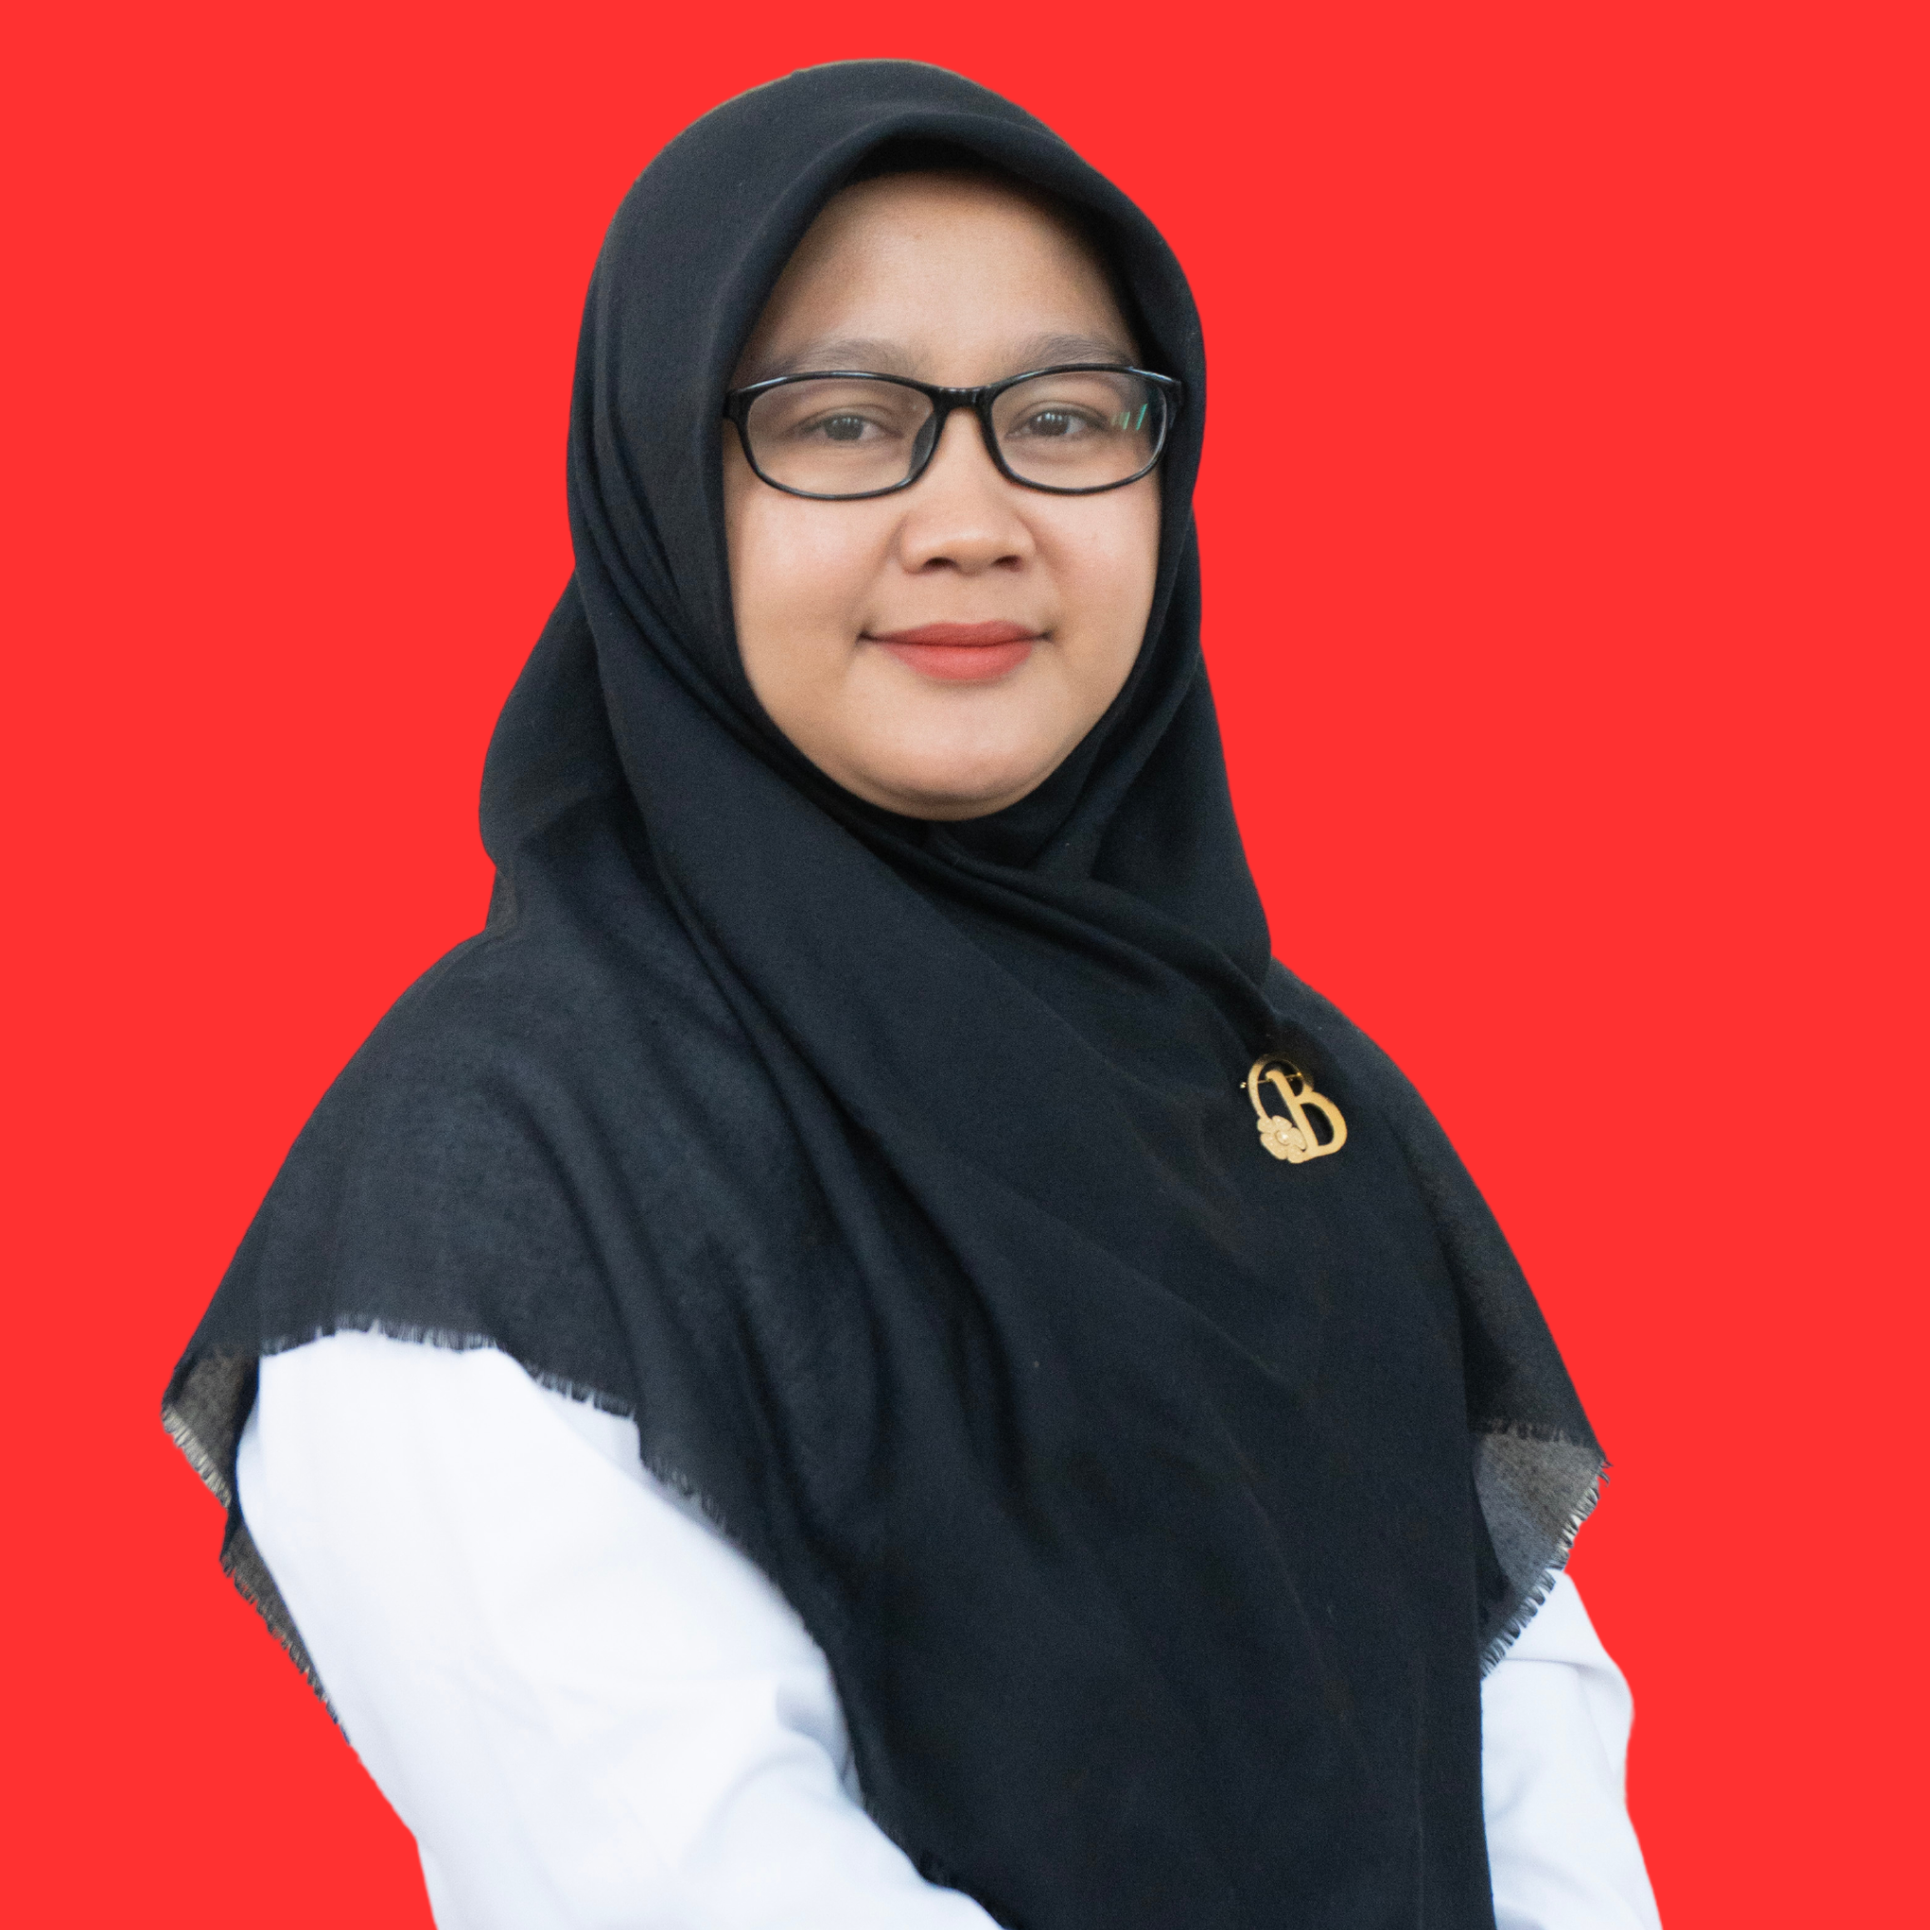
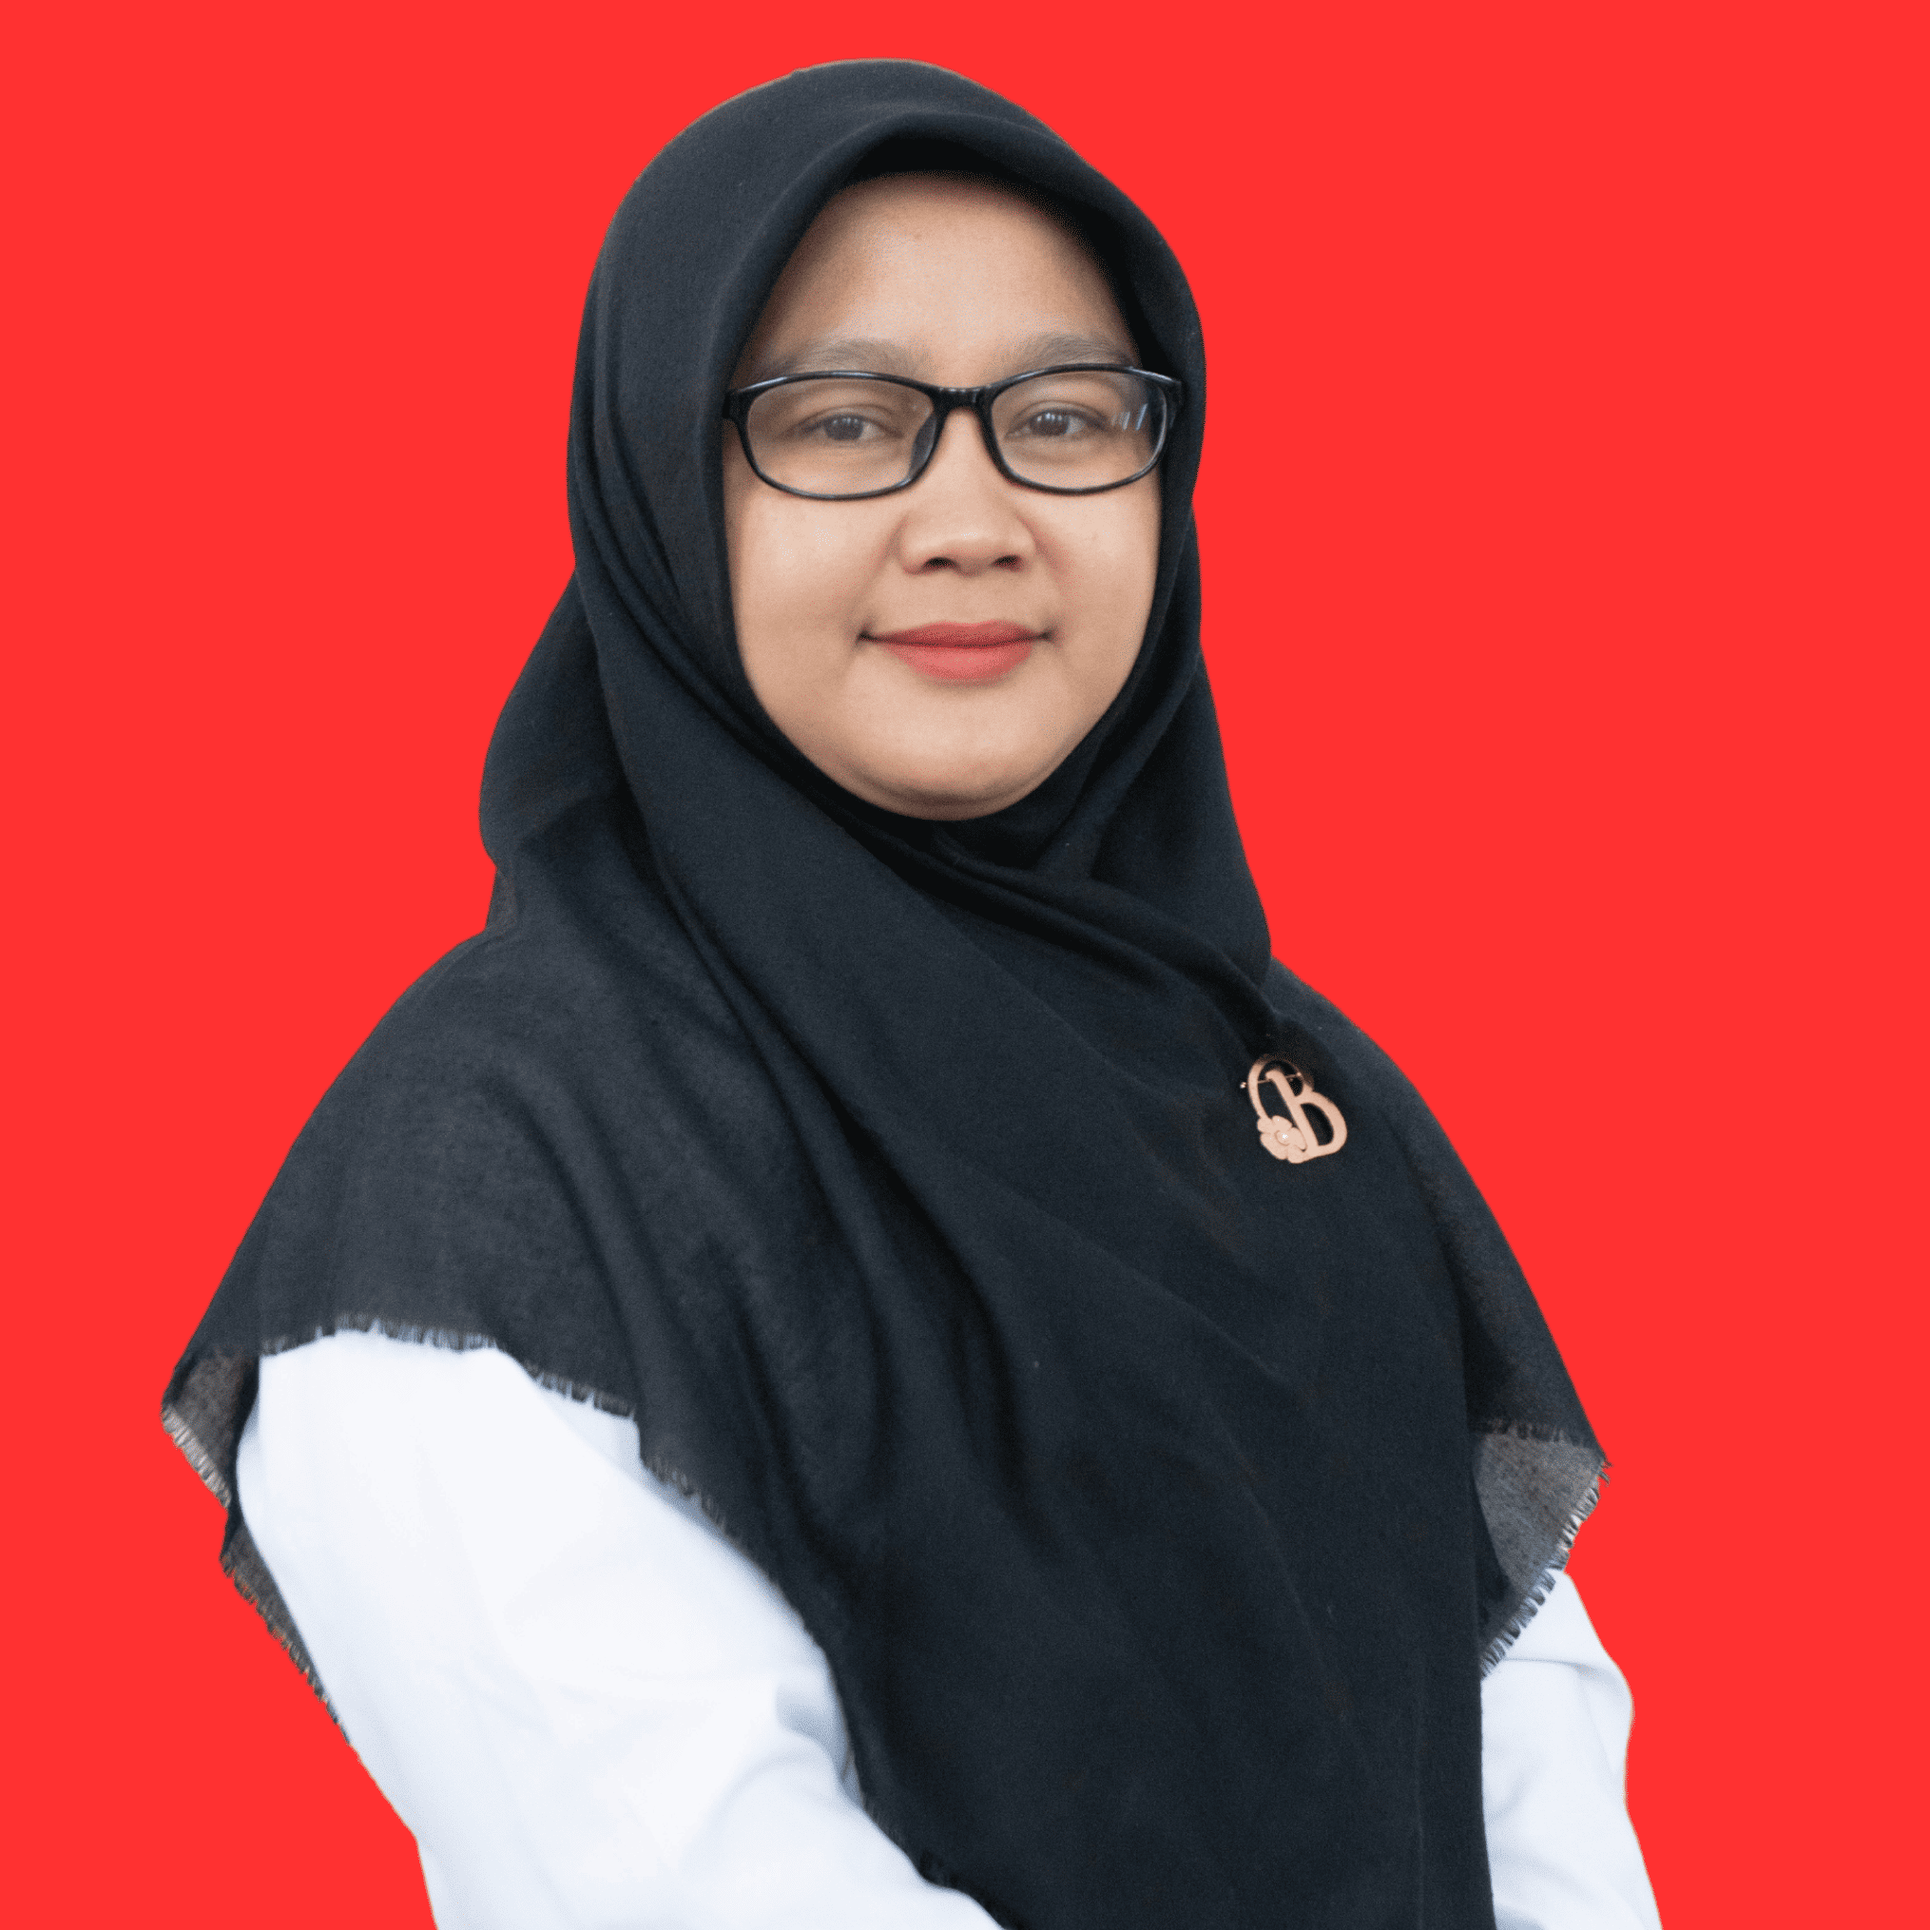
slow foto

diff --git a/istvote/index-old2.html b/istvote/index-old2.html
@@ -187,8 +187,7 @@
     </div>
 
     <div class="footer">
-        <p>© 2025 Sistem Voting IST Favorit | Batas waktu voting: 25 September 2025, 10:55 WIB | Coded by <a
-                href="https://www.youtube.com/@khansa.safira19/">YukFi</a></p>
+        <p>© 2025 Sistem Voting IST Favorit | Batas waktu voting: 25 September 2025, 10:55 WIB | Coded by <a href="https://www.youtube.com/@khansa.safira19/">YukFi</a></p>
     </div>
 
     <script>
@@ -203,7 +202,7 @@
             { name: "Firman", photo: "foto_ist/1705.png" },
             { name: "Diah", photo: "foto_ist/1706.png" },
             { name: "Azni", photo: "foto_ist/1707.png" },
-            { name: "Jhon", photo: "foto_ist/1708.jpg" },
+            { name: "Jhon", photo: "foto_ist/1708.png" },
             { name: "Mey", photo: "foto_ist/1709.jpg" },
             { name: "Ibram", photo: "foto_ist/1771.png" }
         ];
@@ -245,14 +244,10 @@
                     }
                 }
 
-                // 🔹 update the counter display
-                document.getElementById("selectedCount").textContent = selectedCandidates.length;
-
                 // Enable submit button if exactly 3 candidates are selected
                 submitButton.disabled = selectedCandidates.length !== 3;
             });
         });
-
 
         // Add event listener to submit button
         submitButton.addEventListener('click', submitVote);
@@ -344,12 +339,12 @@
         async function loadResults() {
             try {
                 let res = await fetch(API_URL);
-
+                
                 // Check if the response is valid
                 if (!res.ok) {
                     throw new Error(`HTTP error! status: ${res.status}`);
                 }
-
+                
                 let data = await res.json();
                 let labels = candidates.map(c => c.name);
                 let values = labels.map(c => data[c] || 0);
@@ -358,7 +353,7 @@
                 if (!chart) {
                     // Remove placeholder
                     document.getElementById('resultsChart').innerHTML = '';
-
+                    
                     chart = Highcharts.chart('resultsChart', {
                         chart: {
                             type: 'column',
@@ -416,7 +411,7 @@
 
         // Try to load results initially
         loadResults();
-
+        
         // Don't auto-refresh if there's an error to avoid constant error messages
         let refreshInterval = setInterval(() => {
             if (document.getElementById('resultsChart').querySelector('.highcharts-container')) {
